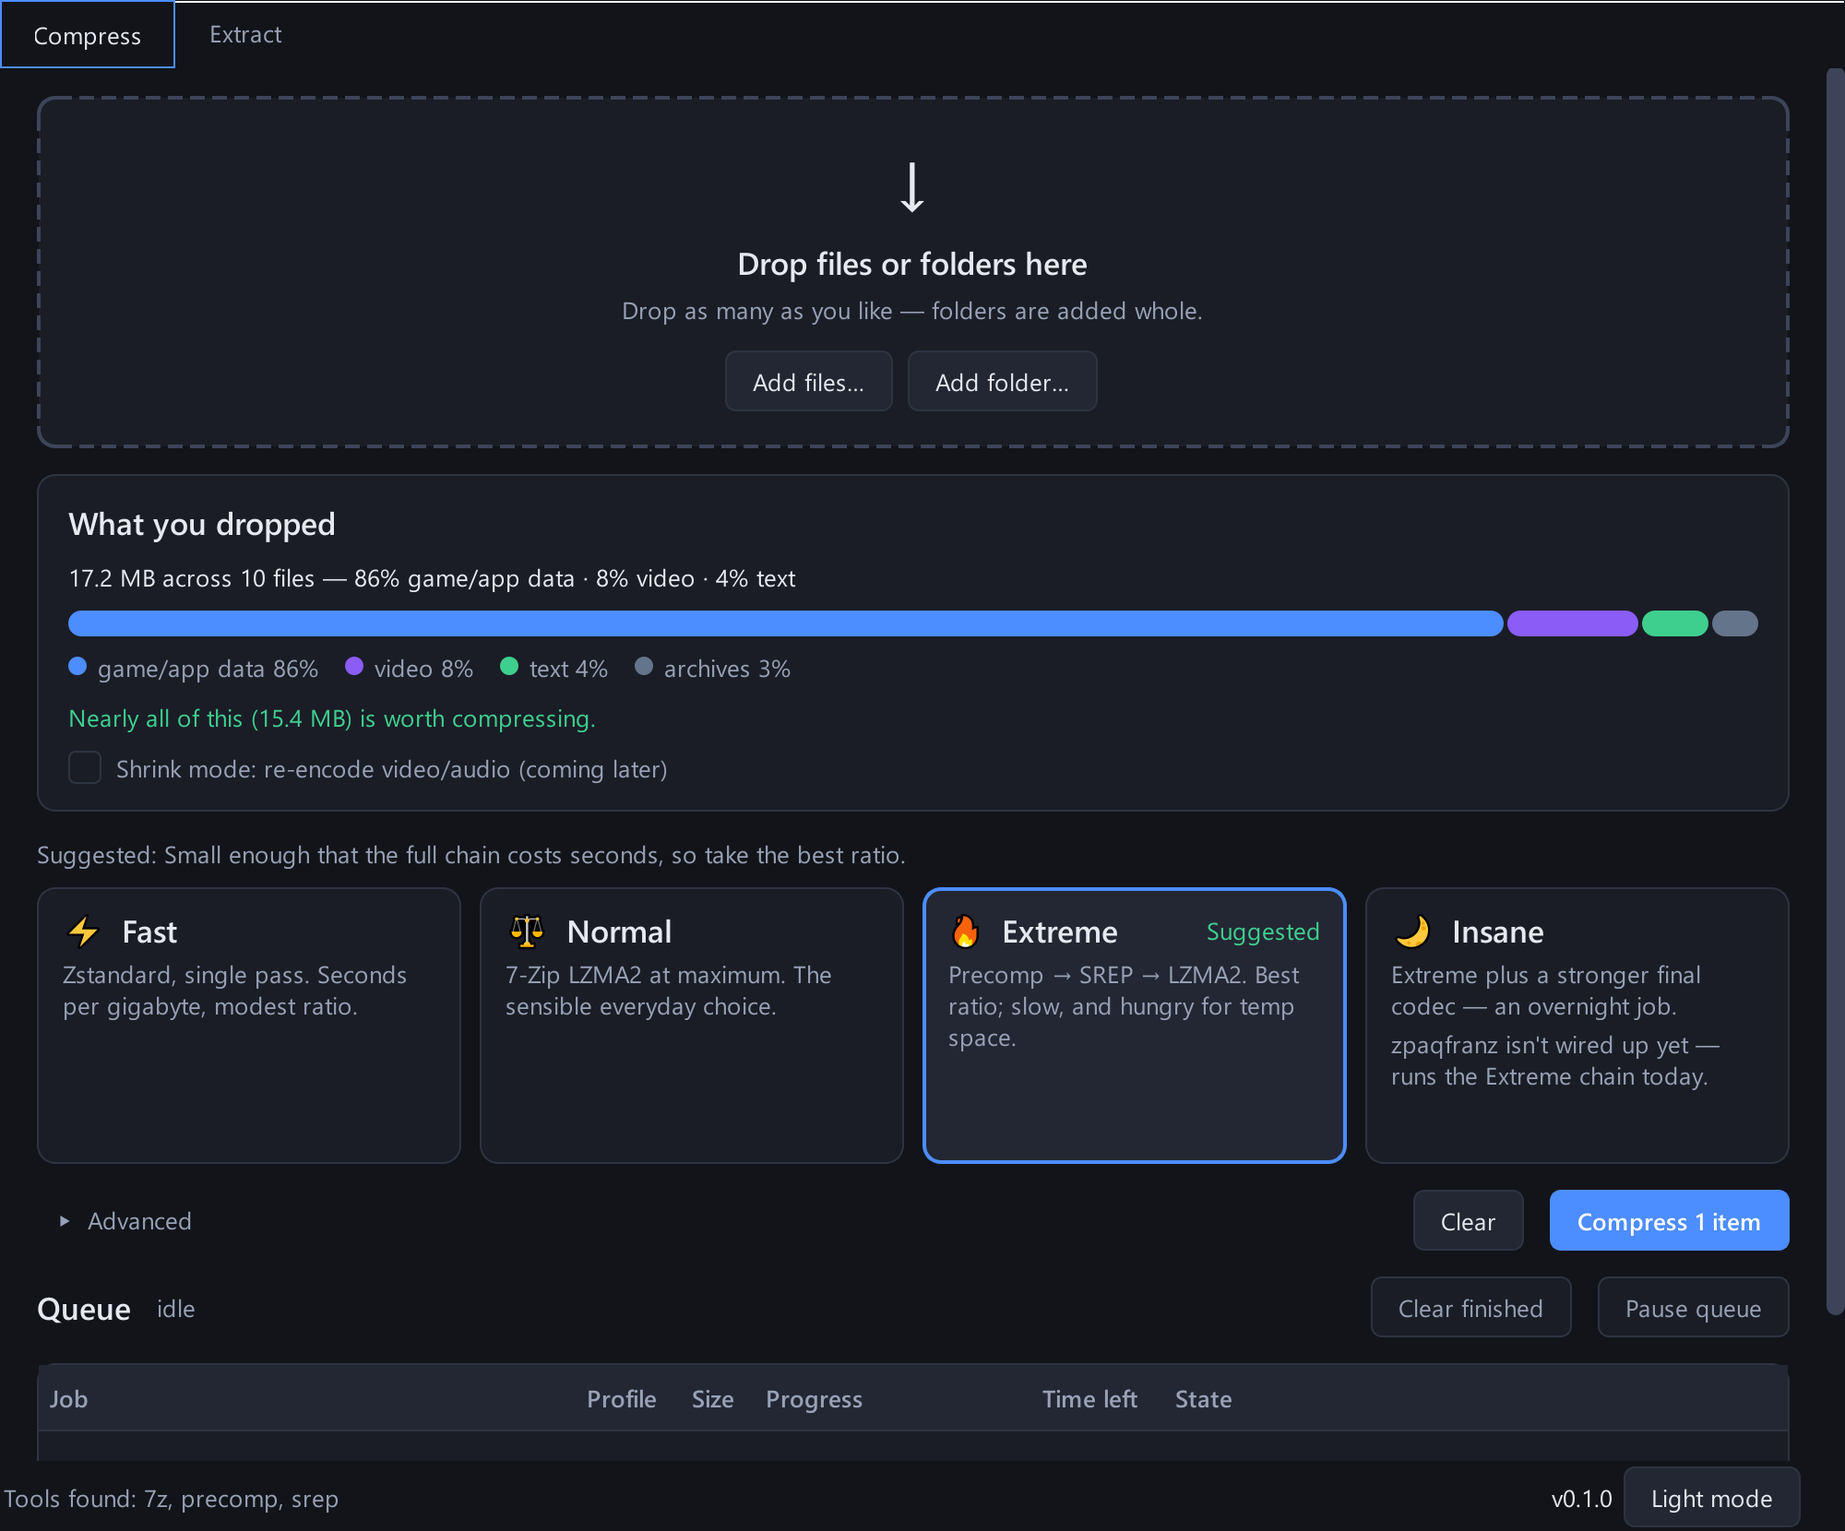
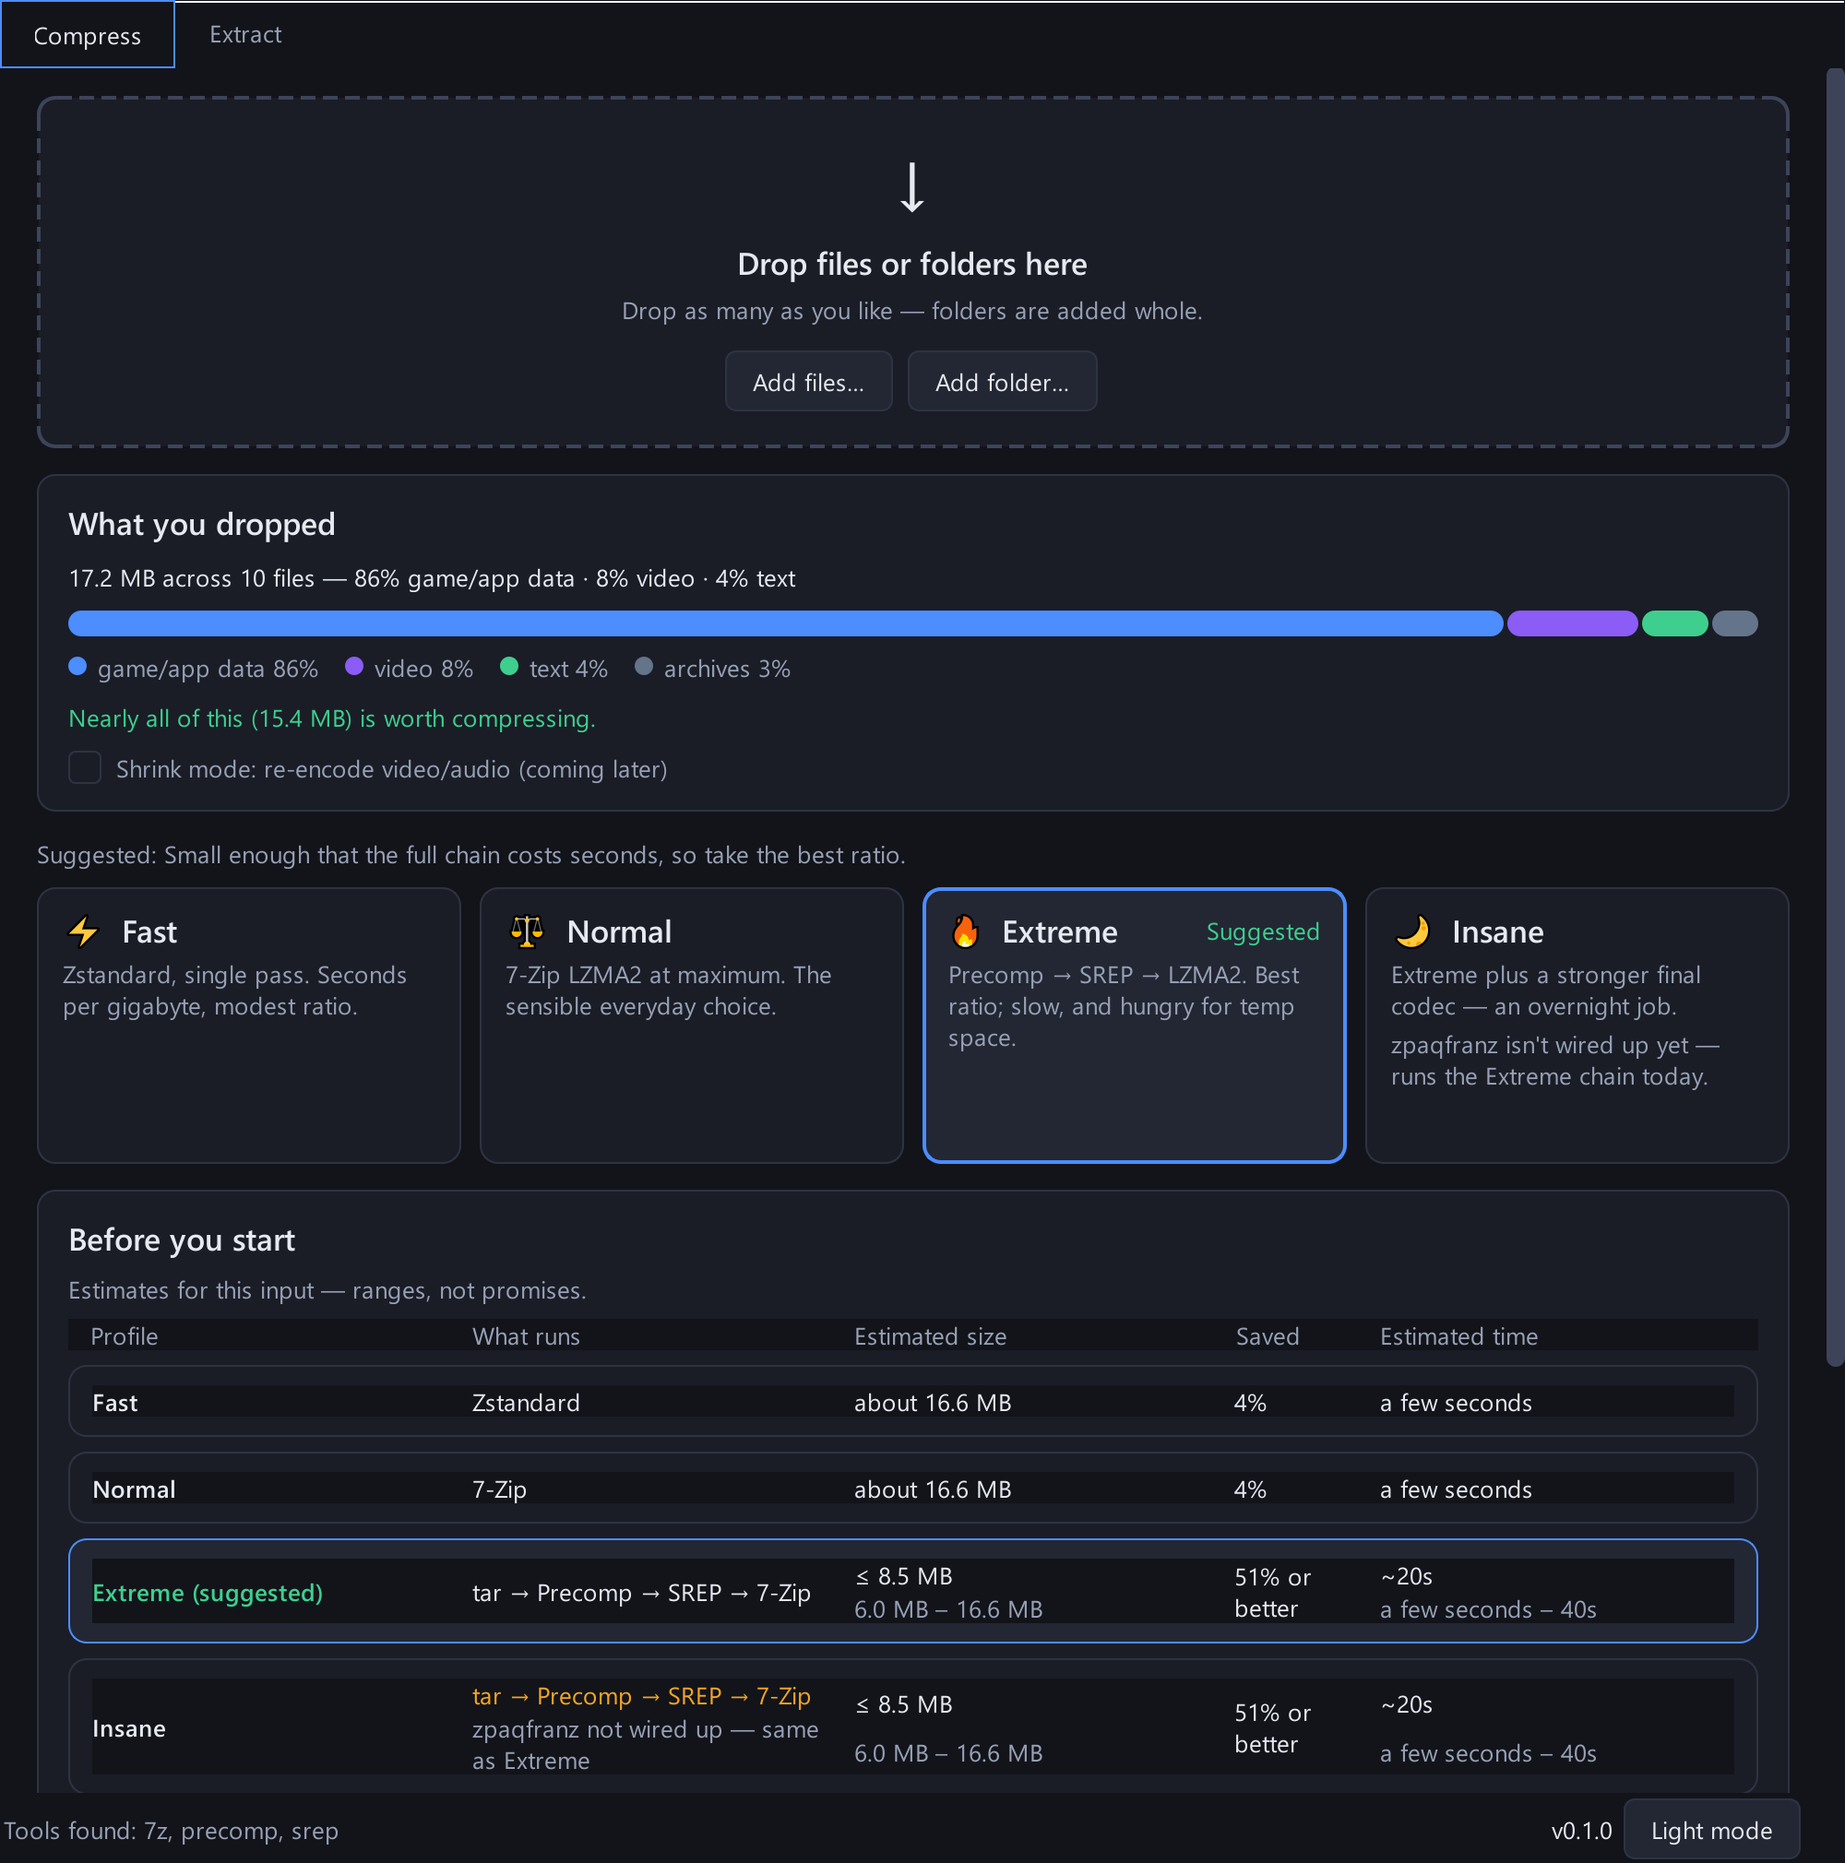
fix(advisor): copy and layout fixes found by actually looking at the window
The J3 table was only ever rendered headless, and Qt's offscreen platform draws
every glyph as a box unless QT_QPA_FONTDIR is set - which tools/shots.py has
known all along and I did not read. Rendered with real fonts against the real
corpus, four problems were obvious immediately and none were visible to a test:

- the same warning appeared three times in one panel (caption, Extreme row,
  Insane row), which reads as noise and teaches people to skip it. The caption
  now names the flagged rows instead of restating them, and the note is one
  sentence with the "no way to know" caveat left to the footnote, said once;
- the recommendation reason appeared twice on screen - the preset cards print
  "Suggested: <reason>" in full right above the table, and the row printed it
  again. The row keeps the outline and the "(suggested)" label; the reason
  still travels on the row so MainWindow can feed the preset badge;
- the planner's log sentence was leaking into the UI verbatim ("insane:
  zpaqfranz backend not integrated yet - using extreme chain"), complete with
  stage vocabulary and an ASCII hyphen. Now humanised to a phrase that still
  names the missing backend, because which tool is absent is exactly the kind
  of thing this app does not get to be vague about;
- a collapsed range restated the value above it - "about 16.6 MB" over
  "16.6 MB", and "a few seconds" twice. It is omitted when the ends round to
  the same thing.
[…]

diff --git a/gui/suggest.py b/gui/suggest.py
@@ -323,10 +323,37 @@ def recommend_with_estimates(summary: AnalysisSummary, estimates, cores: int | N
 
 
 def _span(low: float, high: float, formatter) -> str:
-    """'34s – 2 min'. Endpoints lose the '~' that fmt_eta adds; the range
-    already says the number is approximate."""
+    """'34s – 2 min', or '' when the ends round to the same thing.
+
+    Endpoints lose the '~' that fmt_eta adds - the range already says the number
+    is approximate. A collapsed range returns empty rather than repeating the
+    value: on a small corpus the first draft printed "about 16.6 MB" with
+    "16.6 MB" underneath it, and "a few seconds" twice.
+    """
     lo, hi = formatter(low).lstrip("~ "), formatter(high).lstrip("~ ")
-    return lo if lo == hi else f"{lo} – {hi}"
+    return "" if lo == hi else f"{lo} – {hi}"
+
+
+def _short_caveat(warnings: list[str]) -> str:
+    """A few words for the chain column, not the planner's raw sentence.
+
+    ``planner`` writes for a log: "insane: zpaqfranz backend not integrated yet -
+    using extreme chain". Putting that on screen leaks stage vocabulary and an
+    ASCII hyphen into the UI, and the preset card already says it in prose. All
+    the table needs is enough to explain why two rows show the same chain.
+    """
+    for warning in warnings:
+        if "zpaqfranz" in warning:
+            # Keeps the tool name: which backend is missing is exactly the kind
+            # of thing this app does not get to be vague about.
+            return "zpaqfranz not wired up — same as Extreme"
+    missing = [w.split("tool '")[1].split("'")[0]
+               for w in warnings if "tool '" in w and "not installed" in w]
+    if missing:
+        return f"{', '.join(dict.fromkeys(missing))} missing — stage skipped"
+    if any("fell back to zstd" in w for w in warnings):
+        return "no tools found — Zstandard only"
+    return ""
 
 
 @dataclass(frozen=True)
@@ -369,6 +396,9 @@ def profile_comparison(infos: list[FileInfo], tools: dict[str, ToolInfo | None],
                            for s in expected_chain(est.stages)) or "store only"
         is_recommended = est.profile is recommended
 
+        # One sentence, because it is repeated on every flagged row and the panel
+        # already carries a caption and a footnote. The "no way to know" caveat
+        # lives in the footnote, said once.
         note = ""
         if est.not_worth_it and est.beaten_by is not None:
             beaten = PROFILE_LABELS[est.beaten_by]
@@ -376,14 +406,12 @@ def profile_comparison(infos: list[FileInfo], tools: dict[str, ToolInfo | None],
                 # The estimate assumed Precomp finds nothing, so the warning is
                 # a condition, not a verdict. Saying otherwise would talk people
                 # out of the one profile that cracks repack-style data.
-                note = (f"If Precomp cannot open these streams, {beaten} gets "
-                        f"there {est.time_multiple:.1f}× quicker for the same "
-                        f"result. If it can, this wins — no way to know without "
-                        f"trying.")
+                note = (f"Only worth it if Precomp can open these streams — "
+                        f"otherwise {beaten} is {est.time_multiple:.1f}× quicker "
+                        f"for the same result.")
             else:
-                note = (f"{beaten} gets there {est.time_multiple:.1f}× quicker "
-                        f"and lands within {abs(est.extra_points):.1f} points "
-                        f"of this.")
+                note = (f"{beaten} is {est.time_multiple:.1f}× quicker and lands "
+                        f"within {abs(est.extra_points):.1f} points of this.")
 
         # A Precomp chain's size is a ceiling, not a guess - see
         # excmp.estimate._PRECOMP_OPTIMISTIC. The words have to say which.
@@ -406,22 +434,23 @@ def profile_comparison(infos: list[FileInfo], tools: dict[str, ToolInfo | None],
             recommended=is_recommended,
             reason=reason if is_recommended else "",
             note=note,
-            caveat=" · ".join(est.warnings),
+            caveat=_short_caveat(est.warnings),
             tone="ok" if is_recommended else ("warn" if note else ""),
         ))
     return rows
 
 
 def comparison_caption(rows: list[ComparisonRow]) -> str:
-    """The sentence above the table. Leads with the bad trade when there is
-    one, because that is the thing the user cannot otherwise find out without
-    paying for it."""
+    """The line above the table.
+
+    Points at a flagged row rather than repeating its sentence. Seen on screen,
+    the first draft printed the same warning three times in one panel - caption,
+    Extreme row, Insane row - which reads as noise and trains people to skip it.
+    """
     if not rows:
         return ""
     flagged = [r for r in rows if r.note]
-    if flagged:
-        # The cheapest flagged row, not the most extreme: it is the one the user
-        # is most likely to be choosing between.
-        return f"Estimates for this input. {flagged[0].title}: {flagged[0].note}"
-    return ("Estimates for this input, measured from samples of your files — "
-            "ranges, not promises.")
+    if not flagged:
+        return "Estimates for this input — ranges, not promises."
+    names = " and ".join(dict.fromkeys(r.title for r in flagged))
+    return f"Estimates for this input. Read the note on {names} before starting."

diff --git a/tests/test_gui_suggest.py b/tests/test_gui_suggest.py
@@ -160,9 +160,13 @@ def test_comparison_shows_every_profile_with_a_size_and_a_time():
 
     assert [r.profile for r in rows] == list(Profile)
     for row in rows:
-        assert row.size_text and row.time_text
-        assert "–" in row.size_range or row.size_range        # a range, or a single value
-        assert row.chain
+        assert row.size_text and row.time_text and row.chain
+        # A range is either a real span or absent - never a restatement of the
+        # value above it.
+        for span, value in ((row.size_range, row.size_text),
+                            (row.time_range, row.time_text)):
+            assert span == "" or "–" in span
+            assert span != value.lstrip("≤~ ").replace("about ", "")
 
 
 def test_exactly_one_row_is_recommended_and_it_owns_the_reason():
@@ -223,7 +227,9 @@ def test_a_conditional_flag_warns_but_does_not_demote_the_recommendation():
     rows = profile_comparison(infos, _TOOLS, summary, cores=2)
     marked = next(r for r in rows if r.recommended)
     assert marked.profile is Profile.EXTREME
-    assert marked.note.startswith("If Precomp cannot open")
+    # Asserted on meaning, not wording: the warning must name Precomp as the
+    # condition, so it reads as "it depends" rather than "do not do this".
+    assert "Precomp" in marked.note
 
 
 def test_an_unconditional_flag_does_overrule():
@@ -244,12 +250,16 @@ def test_an_unconditional_flag_does_overrule():
     assert not any(r.recommended and r.profile is Profile.NORMAL for r in rows)
 
 
-def test_the_caption_leads_with_the_bad_trade():
+def test_the_caption_points_at_the_flagged_rows_without_repeating_them():
+    """Seen on screen, a caption that restated the row's warning printed the same
+    sentence three times in one panel. It names the rows instead."""
     infos = _real_infos()
     rows = profile_comparison(infos, _TOOLS, _real_summary(infos), cores=2)
     caption = comparison_caption(rows)
-    assert "Extreme" in caption or "Insane" in caption
-    assert "quicker" in caption
+
+    assert "Extreme" in caption and "Insane" in caption
+    flagged = next(r for r in rows if r.note)
+    assert flagged.note not in caption
 
 
 def test_a_precomp_row_says_at_most_rather_than_about():
@@ -267,14 +277,17 @@ def test_a_precomp_row_says_at_most_rather_than_about():
 
 
 def test_the_precomp_warning_is_stated_as_a_condition():
-    """'Extreme is not worth it' would be a lie on repack data. 'If Precomp
-    cannot open these streams' is the truth, and it is what the row says."""
+    """'Extreme is not worth it' would be a lie on repack data, where Precomp is
+    the whole point. The row has to make Precomp the condition, and stay one
+    sentence - it is repeated on every flagged row."""
     infos = _real_infos()
     rows = {r.profile: r for r in profile_comparison(infos, _TOOLS,
                                                      _real_summary(infos), cores=2)}
     note = rows[Profile.EXTREME].note
-    assert note.startswith("If Precomp cannot open")
-    assert "no way to know without trying" in note
+    assert "Precomp" in note and "otherwise" in note
+    # One sentence. Counting "." would trip over the "5.7x" multiplier, so look
+    # for a real sentence break instead.
+    assert ". " not in note, f"one sentence, got: {note}"
 
 
 def test_the_caption_stays_neutral_when_every_profile_earns_its_time():
@@ -289,10 +302,30 @@ def test_the_caption_stays_neutral_when_every_profile_earns_its_time():
 
 
 def test_a_not_yet_wired_backend_is_disclosed_on_its_row():
+    """Insane shows the same chain and the same numbers as Extreme, so the row
+    has to explain why - naming the missing backend, not leaking the planner's
+    log sentence into the UI."""
     infos = _real_infos()
     rows = {r.profile: r for r in profile_comparison(infos, _TOOLS,
                                                      _real_summary(infos), cores=2)}
-    assert "zpaqfranz" in rows[Profile.INSANE].caveat
+    caveat = rows[Profile.INSANE].caveat
+    assert "zpaqfranz" in caveat
+    assert "Extreme" in caveat
+    assert "stage" not in caveat and "insane:" not in caveat, "engine vocabulary leaked"
+    assert len(caveat) < 60, f"chain column needs a phrase, not a sentence: {caveat}"
+
+
+def test_a_missing_tool_is_named_in_the_caveat():
+    """With nothing installed every profile silently degrades to Zstandard. The
+    chain column shows what will run; the caveat has to name what is absent, or
+    the user cannot tell a deliberate Fast from a broken Normal."""
+    infos = _real_infos()
+    nothing = {"7z": None, "precomp": None, "srep": None}
+    rows = {r.profile: r for r in profile_comparison(infos, nothing,
+                                                     _real_summary(infos), cores=2)}
+    assert rows[Profile.NORMAL].chain == "Zstandard"
+    assert "7z" in rows[Profile.NORMAL].caveat
+    assert not rows[Profile.FAST].caveat, "Fast wanted no external tool"
 
 
 def test_no_input_means_no_table():

diff --git a/gui/widgets/compare_table.py b/gui/widgets/compare_table.py
@@ -98,7 +98,7 @@ class ProfileRow(QFrame):
         cells = (
             _cell(name, "", values, bold=True,
                   tone="ok" if row.recommended else row.tone),
-            _cell(row.chain, "", values, tone="warn" if row.caveat else ""),
+            _cell(row.chain, row.caveat, values, tone="warn" if row.caveat else ""),
             _cell(row.size_text, row.size_range, values),
             _cell(row.saved_text, "", values),
             _cell(row.time_text, row.time_range, values,
@@ -108,20 +108,22 @@ class ProfileRow(QFrame):
             line.addWidget(cell, stretch)
         stack.addWidget(values)
 
-        # All the prose goes on its own full-width line, never inside a column:
-        # the cells hold short values only. A row can be both recommended *and*
-        # carrying a conditional warning - that is the honest state for a Precomp
-        # chain - so both are shown. Wrapping either into a 110px cell made the
-        # row 600px tall.
-        detail = " ".join(part for part in (row.reason, row.note, row.caveat) if part)
-        if detail:
-            prose = QLabel(detail, self)
+        # The warning goes on its own full-width line, never inside a column -
+        # wrapping prose into a 110px cell made the row 600px tall.
+        #
+        # Only the warning. `row.reason` is deliberately NOT shown here: the
+        # preset cards above already print "Suggested: <reason>" in full, and
+        # seen on screen the table repeating it made the same sentence appear
+        # twice in one viewport. A recommended row is marked by its outline and
+        # its "(suggested)" label; the reason still travels on the row so
+        # MainWindow can hand it to the preset badge.
+        if row.note:
+            prose = QLabel(row.note, self)
             prose.setObjectName("Subtitle")
             prose.setWordWrap(True)
             prose.setAttribute(Qt.WidgetAttribute.WA_TransparentForMouseEvents, True)
-            if row.note and not row.recommended:
-                prose.setProperty("tone", "warn")
-                repolish(prose)
+            prose.setProperty("tone", "warn")
+            repolish(prose)
             stack.addWidget(prose)
 
         # One accessible sentence per row - a screen reader should not have to

diff --git a/tools/shots.py b/tools/shots.py
@@ -44,7 +44,10 @@ from gui.app import build_app  # noqa: E402
 from gui.mainwindow import MainWindow  # noqa: E402
 
 IMAGES_DIR = Path(__file__).resolve().parent.parent / "docs" / "images"
-WINDOW_SIZE = (1000, 830)      # logical pixels; doubled by QT_SCALE_FACTOR
+WINDOW_SIZE = (1000, 1010)     # logical pixels; doubled by QT_SCALE_FACTOR
+# Tall enough that the "Before you start" estimates panel (Phase J) is fully in
+# frame on the drop/analysis shot - it is the newest thing worth showing, and at
+# 830 it was cut off mid-table.
 
 GIF_WIDTH = 900
 GIF_FRAME_MS = 100             # 10 fps playback

diff --git a/tests/test_gui_compare.py b/tests/test_gui_compare.py
@@ -134,7 +134,7 @@ def test_the_window_never_suggests_an_unconditionally_bad_trade(window, qtbot, t
     rows = profile_comparison(window._infos, window.tools, window._summary)
     for row in rows:
         if row.recommended and row.note:
-            assert row.note.startswith("If Precomp cannot open"), row.note
+            assert "Precomp" in row.note, row.note
 
 
 def test_choosing_a_row_switches_the_preset_and_replans(window, qtbot, tmp_path):
